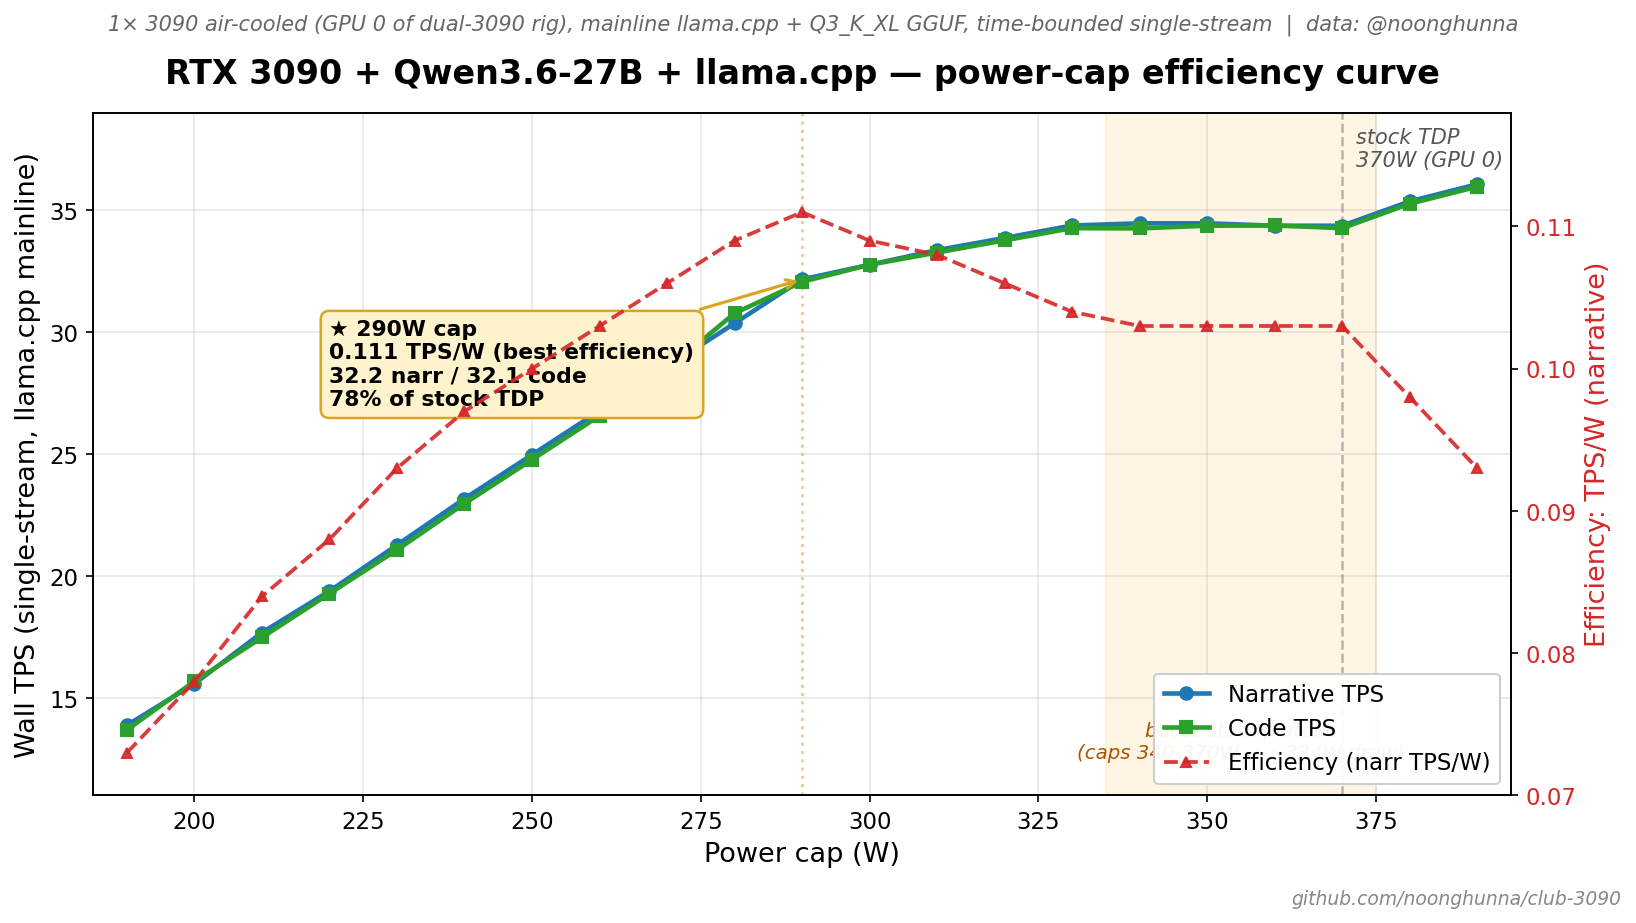
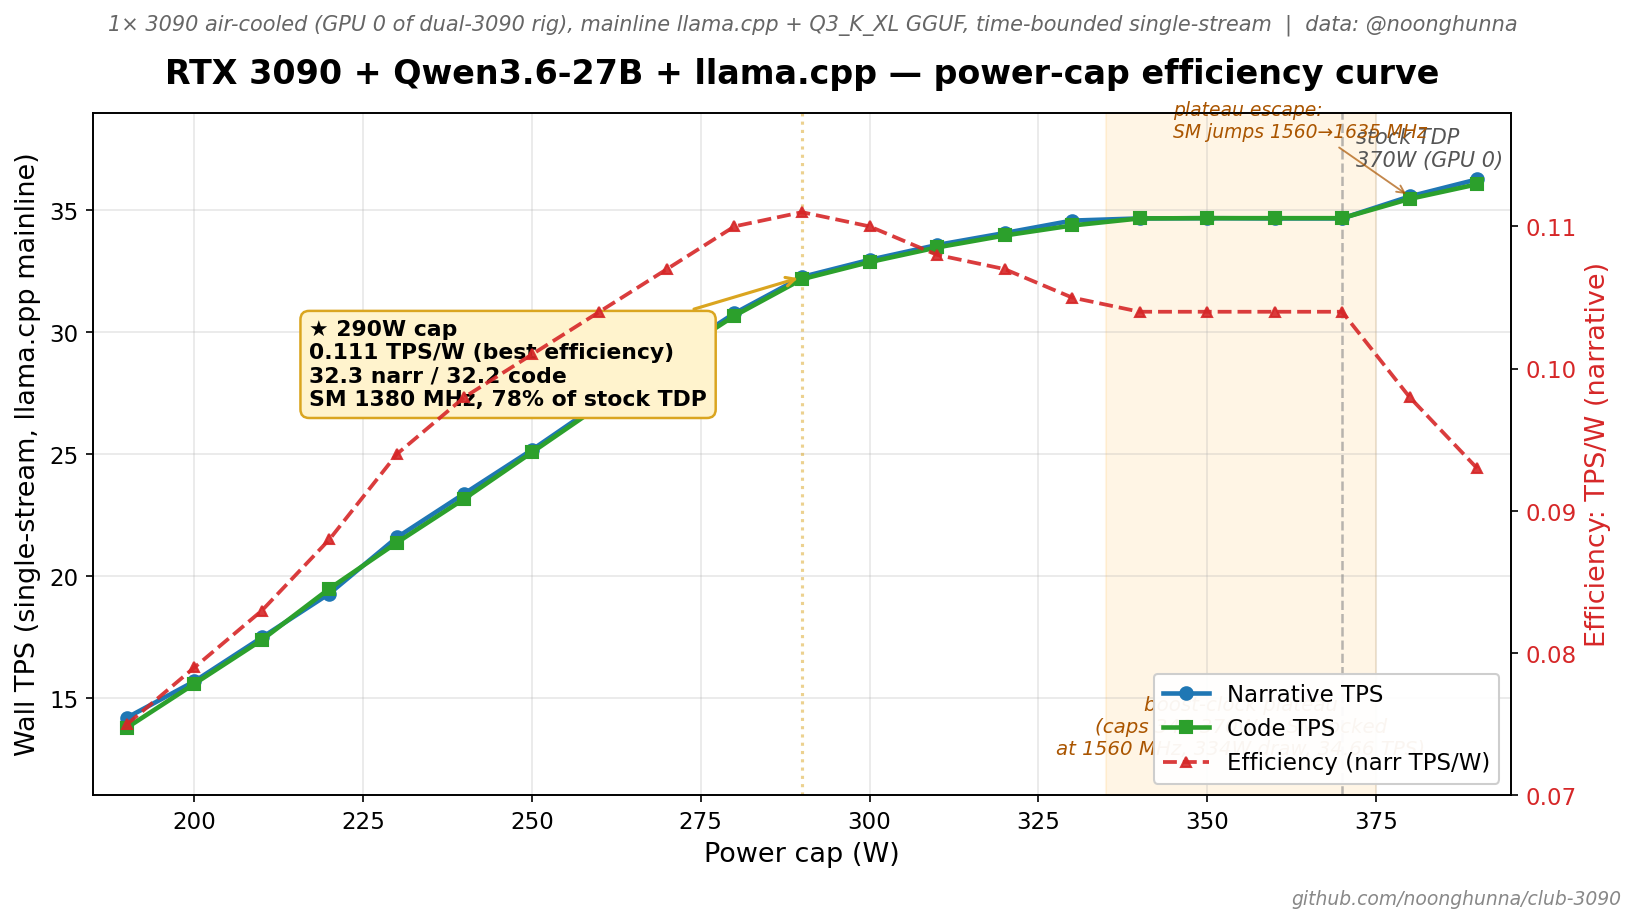
docs(hardware): regen 3090 power-cap charts with SM clock + plateau evidence
Re-ran both 21-cap sweeps with the new sampling fields (commit ab2796d).
The boost-state plateau hypothesized in the prior captions is now directly
evidenced by the SM-clock data:

decode-single (~8m sweep):
  Caps 340/350/360/370W → SM 1560 MHz, draw 334W, TPS 34.66 — identical.
  Cap 380W → SM 1635 MHz, draw 361W, TPS 35.56 (plateau escape).

prefill-heavy (~6m sweep):
  Caps 330-370W → SM 1605-1620 MHz, draw 327W, TPS 1050 — identical.
  Cap 380W → SM 1665 MHz, draw 355W, TPS 1080 (plateau escape).

Throttle stays at 100% across the plateau in both modes — firmware *is*
power-capping, but the cap it enforces is its own internal voltage/clock
setpoint, not the user-set software cap. This makes the prior "we think
this is a firmware plateau" framing concrete: it's a boost-clock lock,
released only at the next cap step.

Chart annotations updated to reference SM-clock evidence directly.
HARDWARE.md cross-rig table rows for @user's rig refreshed with
new TPS numbers + SM clock annotation. Sweet spots unchanged (290W
decode / 250W prefill); the new data refines the explanation rather
than the conclusion.

diff --git a/docs/img/power-cap-3090-prefill.py b/docs/img/power-cap-3090-prefill.py
@@ -4,43 +4,51 @@ Source data: 2026-05-07 sweep, 1× 3090 air-cooled (GPU 0).
 Engine: mainline llama.cpp + Qwen3.6-27B Q3_K_XL.
 Methodology: power-cap-sweep --load-mode prefill-heavy with adaptive prompt
 calibration (probe at highest cap, size prompt for ~10s prefill at high cap,
-use across sweep). Total wall: 5m36s for 21 caps.
+use across sweep). Total wall: ~6m for 21 caps.
 
 Companion to power-cap-3090-qwen36.png (decode-single curve from the same rig).
 The two charts together tell the cross-workload story: same 3090 has different
 sweet-spot at 290W for decode vs 250W for prefill.
+
+Sampling fields: SM clock, memory clock, power-throttle %, P-state per cap
+(median of in-load samples where util>50%). The boost-clock plateau visible at
+caps 330-370W is now directly evidenced by SM clock locked at 1605-1620 MHz
+across all five caps with identical 327W draw and 1050 prefill TPS — power is
+binding (throttle=100%) but firmware refuses to push above ~1620 MHz until the
+cap reaches 380W.
 """
 import matplotlib.pyplot as plt
 
-# (cap_W, prefill_TPS, actual_W, eff_TPS_per_W)
+# (cap_W, prefill_TPS, actual_W, sm_clk_MHz, eff_TPS_per_W) — 21-cap clean sweep
 data = [
-    (190, 543.18, 189.77, 2.862),
-    (200, 607.34, 199.62, 3.042),
-    (210, 671.29, 209.68, 3.201),
-    (220, 737.69, 219.55, 3.360),
-    (230, 795.53, 229.69, 3.463),
-    (240, 851.79, 239.61, 3.555),
-    (250, 901.07, 249.15, 3.617),  # ⭐ sweet spot
-    (260, 930.09, 259.42, 3.585),
-    (270, 958.35, 269.58, 3.555),
-    (280, 978.23, 279.44, 3.501),
-    (290, 996.04, 289.38, 3.442),
-    (300, 1010.35, 298.99, 3.379),
-    (310, 1021.66, 308.93, 3.307),
-    (320, 1035.39, 318.94, 3.246),
-    (330, 1041.39, 326.48, 3.190),
-    (340, 1043.79, 326.36, 3.198),  # boost-state plateau begins
-    (350, 1042.35, 326.43, 3.193),
-    (360, 1043.79, 326.46, 3.197),
-    (370, 1044.66, 326.63, 3.198),  # stock TDP, plateau holds
-    (380, 1071.75, 354.79, 3.021),  # plateau ends, draw jumps
-    (390, 1096.88, 381.35, 2.876),  # max — 381W draw at 390W cap
+    (190, 542.04, 189.73, 735, 2.857),
+    (200, 606.05, 199.73, 825, 3.034),
+    (210, 666.44, 209.69, 930, 3.178),
+    (220, 732.61, 219.62, 1050, 3.336),
+    (230, 796.31, 229.57, 1170, 3.469),
+    (240, 855.79, 239.63, 1245, 3.571),
+    (250, 906.79, 249.57, 1350, 3.633),  # ⭐ sweet spot
+    (260, 934.60, 259.22, 1395, 3.605),
+    (270, 959.59, 269.33, 1440, 3.563),
+    (280, 982.50, 279.31, 1485, 3.518),
+    (290, 1000.34, 289.54, 1515, 3.455),
+    (300, 1015.32, 299.45, 1545, 3.391),
+    (310, 1028.58, 309.31, 1560, 3.325),
+    (320, 1041.55, 319.38, 1605, 3.261),
+    (330, 1050.31, 327.08, 1605, 3.211),  # ←┐
+    (340, 1051.35, 326.86, 1605, 3.217),  #   │ boost-clock plateau
+    (350, 1050.13, 327.07, 1620, 3.211),  #   │ SM 1605/1620 MHz lock,
+    (360, 1049.84, 326.91, 1620, 3.211),  #   │ 327W draw, 1050 TPS
+    (370, 1051.07, 327.33, 1620, 3.211),  # ←┘ stock TDP
+    (380, 1080.69, 354.99, 1665, 3.044),  # plateau ends, SM jumps to 1665
+    (390, 1104.81, 381.19, 1710, 2.898),  # max — 381W draw, SM 1710
 ]
 
 caps = [d[0] for d in data]
 tps = [d[1] for d in data]
 draw = [d[2] for d in data]
-eff = [d[3] for d in data]
+sm_clk = [d[3] for d in data]
+eff = [d[4] for d in data]
 
 plt.rcParams.update({
     "font.family": "sans-serif",
@@ -77,8 +85,8 @@ ax2.set_ylim(2.7, 3.7)
 # Sweet spot annotation: 250W
 ax1.axvline(250, color="goldenrod", linestyle=":", alpha=0.5, linewidth=1.5)
 ax1.annotate(
-    "★ 250W cap\n3.617 TPS/W (best efficiency)\n901 prefill TPS\n68% of stock TDP",
-    xy=(250, 901.07),
+    "★ 250W cap\n3.633 TPS/W (best efficiency)\n906.8 prefill TPS\nSM 1350 MHz, 68% of stock TDP",
+    xy=(250, 906.79),
     xytext=(265, 660),
     fontsize=10.5,
     fontweight="bold",
@@ -87,9 +95,9 @@ ax1.annotate(
     zorder=4,
 )
 
-# Boost-state plateau region (340-370W → all 326W draw)
-ax1.axvspan(335, 375, alpha=0.10, color="orange", zorder=0)
-ax1.text(355, 525, "boost-state plateau\n(340-370W → ~326W draw)",
+# Boost-clock plateau region (330-370W → SM 1605/1620, 327W draw, 1050 TPS)
+ax1.axvspan(325, 375, alpha=0.10, color="orange", zorder=0)
+ax1.text(350, 525, "boost-clock plateau\n(caps 330-370W → SM locked at 1605-1620 MHz,\n327W draw, 1050 prefill TPS)",
          fontsize=9.5, ha="center", color="#aa5500", fontstyle="italic")
 
 # Stock TDP marker
@@ -102,6 +110,18 @@ ax1.annotate(
     ha="left",
     color="#555",
     fontstyle="italic",
+)
+
+# Plateau-escape annotation at 380W
+ax1.annotate(
+    "plateau escape:\nSM jumps 1620→1665 MHz",
+    xy=(380, 1080.69),
+    xytext=(330, 1115),
+    fontsize=9,
+    color="#aa5500",
+    fontstyle="italic",
+    arrowprops=dict(arrowstyle="->", color="#aa5500", lw=0.9, alpha=0.7),
+    zorder=4,
 )
 
 # Compare with decode sweet spot

diff --git a/docs/img/power-cap-3090-qwen36.py b/docs/img/power-cap-3090-qwen36.py
@@ -8,39 +8,47 @@ Sweep methodology: time-bounded streaming bench (10s/direction at each cap).
 Total wall: 8m12s for 21 caps from 190-390W in 10W increments. The time-bounded
 approach (vs token-bounded) makes per-cap wall constant ~23s regardless of cap,
 so total runtime scales linearly with cap count, not throttle severity.
+
+Sampling fields: SM clock, memory clock, power-throttle %, P-state per cap
+(median of in-load samples where util>50%). The boost-clock plateau visible at
+caps 340-370W is now directly evidenced by SM clock locked at 1560 MHz across
+all four caps, with identical 334W actual draw and 34.66 TPS — power is binding
+at every cap (throttle=100%) but firmware refuses to push above 1560 MHz until
+the cap reaches 380W.
 """
 import matplotlib.pyplot as plt
 
-# (cap_W, narr_TPS, code_TPS, actual_W, eff_TPS_per_W) — full 21-cap clean sweep
+# (cap_W, narr_TPS, code_TPS, actual_W, sm_clk_MHz, eff_TPS_per_W) — 21-cap clean sweep
 data = [
-    (190, 13.88, 13.69, 189.73, 0.073),
-    (200, 15.58, 15.68, 199.71, 0.078),
-    (210, 17.68, 17.48, 209.77, 0.084),
-    (220, 19.38, 19.28, 219.73, 0.088),
-    (230, 21.27, 21.07, 229.71, 0.093),
-    (240, 23.17, 22.97, 239.84, 0.097),
-    (250, 24.97, 24.77, 249.80, 0.100),
-    (260, 26.77, 26.57, 259.86, 0.103),
-    (270, 28.57, 28.47, 269.56, 0.106),
-    (280, 30.36, 30.77, 279.75, 0.109),
-    (290, 32.16, 32.06, 289.37, 0.111),  # ⭐ sweet spot
-    (300, 32.76, 32.76, 299.30, 0.109),
-    (310, 33.36, 33.26, 309.59, 0.108),
-    (320, 33.86, 33.76, 319.47, 0.106),
-    (330, 34.37, 34.26, 329.47, 0.104),
-    (340, 34.46, 34.25, 333.70, 0.103),  # boost-state plateau begins
-    (350, 34.46, 34.36, 334.00, 0.103),
-    (360, 34.36, 34.37, 333.97, 0.103),
-    (370, 34.36, 34.26, 334.02, 0.103),  # stock TDP, plateau holds
-    (380, 35.36, 35.26, 361.30, 0.098),  # plateau ends, draw jumps to 361
-    (390, 36.06, 35.96, 388.72, 0.093),  # max — 388W draw at 390W cap
+    (190, 14.19, 13.78, 189.71, 540, 0.075),
+    (200, 15.68, 15.58, 199.72, 585, 0.079),
+    (210, 17.48, 17.38, 209.69, 660, 0.083),
+    (220, 19.28, 19.48, 219.71, 750, 0.088),
+    (230, 21.58, 21.37, 229.73, 825, 0.094),
+    (240, 23.38, 23.17, 239.74, 915, 0.098),
+    (250, 25.17, 25.07, 249.80, 975, 0.101),
+    (260, 27.07, 26.97, 259.87, 1080, 0.104),
+    (270, 28.97, 28.87, 269.86, 1185, 0.107),
+    (280, 30.77, 30.67, 279.76, 1260, 0.110),
+    (290, 32.26, 32.17, 289.55, 1380, 0.111),  # ⭐ sweet spot
+    (300, 32.96, 32.87, 299.22, 1425, 0.110),
+    (310, 33.57, 33.47, 309.57, 1470, 0.108),
+    (320, 34.06, 33.96, 319.41, 1515, 0.107),
+    (330, 34.57, 34.37, 329.42, 1545, 0.105),
+    (340, 34.66, 34.66, 334.08, 1560, 0.104),  # ←┐
+    (350, 34.67, 34.67, 334.09, 1560, 0.104),  #   │ boost-clock plateau
+    (360, 34.66, 34.67, 333.93, 1560, 0.104),  #   │ SM clk locks at 1560 MHz
+    (370, 34.66, 34.67, 334.00, 1560, 0.104),  # ←┘ stock TDP
+    (380, 35.56, 35.46, 361.67, 1635, 0.098),  # plateau ends, SM jumps to 1635
+    (390, 36.26, 36.06, 388.53, 1680, 0.093),  # max — SM 1680 MHz at 388W draw
 ]
 
 caps = [d[0] for d in data]
 narr = [d[1] for d in data]
 code = [d[2] for d in data]
 draw = [d[3] for d in data]
-eff = [d[4] for d in data]
+sm_clk = [d[4] for d in data]
+eff = [d[5] for d in data]
 
 plt.rcParams.update({
     "font.family": "sans-serif",
@@ -80,9 +88,9 @@ ax2.set_ylim(0.07, 0.118)
 # Sweet spot annotation: 290W
 ax1.axvline(290, color="goldenrod", linestyle=":", alpha=0.5, linewidth=1.5)
 ax1.annotate(
-    "★ 290W cap\n0.111 TPS/W (best efficiency)\n32.2 narr / 32.1 code\n78% of stock TDP",
-    xy=(290, 32.16),
-    xytext=(220, 27),
+    "★ 290W cap\n0.111 TPS/W (best efficiency)\n32.3 narr / 32.2 code\nSM 1380 MHz, 78% of stock TDP",
+    xy=(290, 32.26),
+    xytext=(217, 27),
     fontsize=10.5,
     fontweight="bold",
     bbox=dict(boxstyle="round,pad=0.4", facecolor="#fff3cd", edgecolor="goldenrod", linewidth=1.2),
@@ -90,9 +98,9 @@ ax1.annotate(
     zorder=4,
 )
 
-# Boost-state plateau region (340-370W → all 334W draw)
+# Boost-clock plateau region (340-370W → all SM 1560 MHz, 334W draw, 34.66 TPS)
 ax1.axvspan(335, 375, alpha=0.10, color="orange", zorder=0)
-ax1.text(355, 12.5, "boost-state plateau\n(caps 340-370W → ~334W draw)",
+ax1.text(355, 12.7, "boost-clock plateau\n(caps 340-370W → SM locked\nat 1560 MHz, 334W draw, 34.66 TPS)",
          fontsize=9.5, ha="center", color="#aa5500", fontstyle="italic")
 
 # Stock TDP marker at 370W
@@ -105,6 +113,18 @@ ax1.annotate(
     ha="left",
     color="#555",
     fontstyle="italic",
+)
+
+# Plateau-escape annotation at 380W
+ax1.annotate(
+    "plateau escape:\nSM jumps 1560→1635 MHz",
+    xy=(380, 35.56),
+    xytext=(345, 38),
+    fontsize=9,
+    color="#aa5500",
+    fontstyle="italic",
+    arrowprops=dict(arrowstyle="->", color="#aa5500", lw=0.9, alpha=0.7),
+    zorder=4,
 )
 
 # Title

diff --git a/docs/HARDWARE.md b/docs/HARDWARE.md
@@ -127,14 +127,14 @@ How `decode-single` is timed (the new default since 2026-05-07):
 | 3090 | water | llama.cpp default | Qwen3.6 27B Q3_K_XL | 230W | 25.15 | 24.86 | 0.109 | [@syangsao #58](https://github.com/noonghunna/club-3090/issues/58#issuecomment-4388766174) |
 | 3090 | water | llama.cpp default | Qwen3.6 27B Q3_K_XL | **330W** ⭐ | 36.35 | 36.26 | 0.110 | [@syangsao #58](https://github.com/noonghunna/club-3090/issues/58#issuecomment-4388766174) |
 | 3090 | water | llama.cpp default | Qwen3.6 27B Q3_K_XL | 388W (stock) | 38.23 | 37.97 | 0.098 | [@syangsao #58](https://github.com/noonghunna/club-3090/issues/58#issuecomment-4388766174) |
-| 3090 | air | llama.cpp default | Qwen3.6 27B Q3_K_XL | **290W** ⭐ | 32.16 | 32.06 | **0.111** | @noonghunna (this rig, 21-cap 10W sweep, time-bounded bench) |
-| 3090 | air | llama.cpp default | Qwen3.6 27B Q3_K_XL | 370W (stock) | 34.36 | 34.26 | 0.103 | same |
-| 3090 | air | llama.cpp default | Qwen3.6 27B Q3_K_XL | 390W (max) | 36.06 | 35.96 | 0.093 | same |
+| 3090 | air | llama.cpp default | Qwen3.6 27B Q3_K_XL | **290W** ⭐ | 32.26 | 32.17 | **0.111** | @noonghunna (this rig, 21-cap 10W sweep, time-bounded bench, SM 1380 MHz at sweet spot) |
+| 3090 | air | llama.cpp default | Qwen3.6 27B Q3_K_XL | 370W (stock) | 34.66 | 34.67 | 0.104 | same — SM locks at 1560 MHz across 340-370W (boost-clock plateau) |
+| 3090 | air | llama.cpp default | Qwen3.6 27B Q3_K_XL | 390W (max) | 36.26 | 36.06 | 0.093 | same — SM 1680 MHz at 388W draw |
 | 3090 | air | llama.cpp `decode-concurrent` N=4 | Qwen3.6 27B Q3_K_XL | **290W** ⭐ | 31.74 | 29.98 | **0.110** | @noonghunna (this rig, 21-cap, 4-stream aggregate, 8m wall) |
 | 3090 | air | llama.cpp `decode-concurrent` N=4 | Qwen3.6 27B Q3_K_XL | 370W (stock) | 34.13 | 32.46 | 0.102 | same |
-| 3090 | air | llama.cpp `prefill-heavy` (Qwen3.6-27B) | **prefill-heavy** | **250W** ⭐ | 901.07 | (n/a) | **3.617** | @noonghunna (this rig, 21-cap adaptive sweep, 5m36s) |
-| 3090 | air | llama.cpp `prefill-heavy` (Qwen3.6-27B) | **prefill-heavy** | 370W (stock) | 1044.66 | (n/a) | 3.198 | same — boost-plateau holds 326W |
-| 3090 | air | llama.cpp `prefill-heavy` (Qwen3.6-27B) | **prefill-heavy** | 390W (max) | 1096.88 | (n/a) | 2.876 | same — 381W actual draw |
+| 3090 | air | llama.cpp `prefill-heavy` (Qwen3.6-27B) | **prefill-heavy** | **250W** ⭐ | 906.79 | (n/a) | **3.633** | @noonghunna (this rig, 21-cap adaptive sweep, ~6m, SM 1350 MHz at sweet spot) |
+| 3090 | air | llama.cpp `prefill-heavy` (Qwen3.6-27B) | **prefill-heavy** | 370W (stock) | 1051.07 | (n/a) | 3.211 | same — SM locks at 1605-1620 MHz across 330-370W (boost-clock plateau, 327W draw) |
+| 3090 | air | llama.cpp `prefill-heavy` (Qwen3.6-27B) | **prefill-heavy** | 390W (max) | 1104.81 | (n/a) | 2.898 | same — SM 1710 MHz at 381W draw |
 | 4090 | air | llama.cpp default | Qwen3.6 27B Q3_K_XL | **260W** ⭐ | 48.41 | 48.43 | 0.186 | [@laurimyllari #62](https://github.com/noonghunna/club-3090/discussions/62#discussioncomment-16832066) |
 | 4090 | air | llama.cpp default | Qwen3.6 27B Q3_K_XL | 280W | 49.54 | 49.10 | 0.177 | [@laurimyllari #62](https://github.com/noonghunna/club-3090/discussions/62#discussioncomment-16832066) |
 | 4090 | air | llama.cpp default | Qwen3.6 27B Q3_K_XL | 300W | 50.26 | 50.02 | 0.168 | [@laurimyllari #62](https://github.com/noonghunna/club-3090/discussions/62#discussioncomment-16832066) |
@@ -176,11 +176,11 @@ The cross-workload pattern: **both workload classes have efficiency knee at 400W
 
 ![3090 + Qwen3.6-27B + llama.cpp power-cap efficiency curve (noonghunna)](img/power-cap-3090-qwen36.png)
 
-*3090 air-cooled + Qwen3.6-27B Q3_K_XL + mainline llama.cpp, 21-cap sweep 190-390W via time-bounded streaming bench (10s/direction). **Total wall: 8m12s.** Yellow callout: 290W sweet spot (0.111 TPS/W) at **78% of stock 370W TDP**. Orange-shaded zone 340-370W: firmware boost-state plateau where caps 340/350/360/370W all draw identical ~334W actual. At 380W cap, draw escapes to 361W; at 390W cap, draw reaches 388W — so the apparent "ceiling" at 334W isn't a hardware limit, it's a discrete boost-state behavior. GPU temp peaked at 76°C at 390W cap (air-cooled, no thermal throttle within the 0-100% util envelope). Source script: [`img/power-cap-3090-qwen36.py`](img/power-cap-3090-qwen36.py).*
+*3090 air-cooled + Qwen3.6-27B Q3_K_XL + mainline llama.cpp, 21-cap sweep 190-390W via time-bounded streaming bench (10s/direction). **Total wall: ~8m.** Yellow callout: 290W sweet spot (0.111 TPS/W, SM 1380 MHz) at **78% of stock 370W TDP**. Orange-shaded zone 340-370W: firmware **boost-clock plateau** — directly evidenced by the new SM-clock sampling: caps 340/350/360/370W all lock SM at exactly 1560 MHz, draw 334W actual, produce 34.66 TPS. Throttle stays at 100% across the plateau, meaning the firmware *is* power-capping, but the cap it enforces is its own internal voltage/clock setpoint, not the user-set software cap. Plateau escapes at 380W cap → SM jumps to 1635 MHz → draw to 361W → TPS to 35.56. So the "ceiling" at 334W isn't a hardware limit, it's a firmware boost-state lock that releases only at the next cap step. GPU temp peaked at 74°C at 390W cap. Source script: [`img/power-cap-3090-qwen36.py`](img/power-cap-3090-qwen36.py).*
 
 ![3090 + Qwen3.6 + llama.cpp prefill-heavy power-cap efficiency curve (noonghunna)](img/power-cap-3090-prefill.png)
 
-*3090 air-cooled + Qwen3.6-27B Q3_K_XL + mainline llama.cpp, 21-cap **prefill-heavy** sweep 190-390W via adaptive prompt calibration (probe TPS at 390W → size prompt for 10s prefill at high cap → 11K-token prompt used across all caps). **Total wall: 5m36s.** Yellow callout: **250W sweet spot (3.617 prefill TPS/W)** at **68% of stock TDP** — note: this is a different sweet spot than decode-single's 290W on the same rig. Boost-state plateau visible at 340-370W (caps draw identical 326W actual). Companion to the decode chart above; together they show **same card has different power-knee for different workload class**.*
+*3090 air-cooled + Qwen3.6-27B Q3_K_XL + mainline llama.cpp, 21-cap **prefill-heavy** sweep 190-390W via adaptive prompt calibration (probe TPS at 390W → size prompt for 10s prefill at high cap → 11K-token prompt used across all caps). **Total wall: ~6m.** Yellow callout: **250W sweet spot (3.633 prefill TPS/W, SM 1350 MHz)** at **68% of stock TDP** — different sweet spot than decode-single's 290W on the same rig because prefill is more compute-bound and reaches diminishing returns earlier. Boost-clock plateau visible at 330-370W: SM clock locks at 1605-1620 MHz across all five caps with identical 327W draw + 1050 prefill TPS. Plateau escapes at 380W → SM 1665 MHz, draw 355W, TPS 1080. Companion to the decode chart above; together they show **same card has different power-knee for different workload class** — and both workloads share the same firmware boost-clock plateau pattern, just with slightly different clock setpoints.*
 
 **Cross-rig pattern**: efficiency knee falls at **~60-85% of stock TDP** across consumer Ampere/Ada — start there for a new card class and zoom in. Ada (4090) is proportionally more aggressive than Ampere (3090) — 4090 cuts 33% of stock TDP for ~7% TPS loss; 3090 cuts 15% of stock for ~5% loss.
 